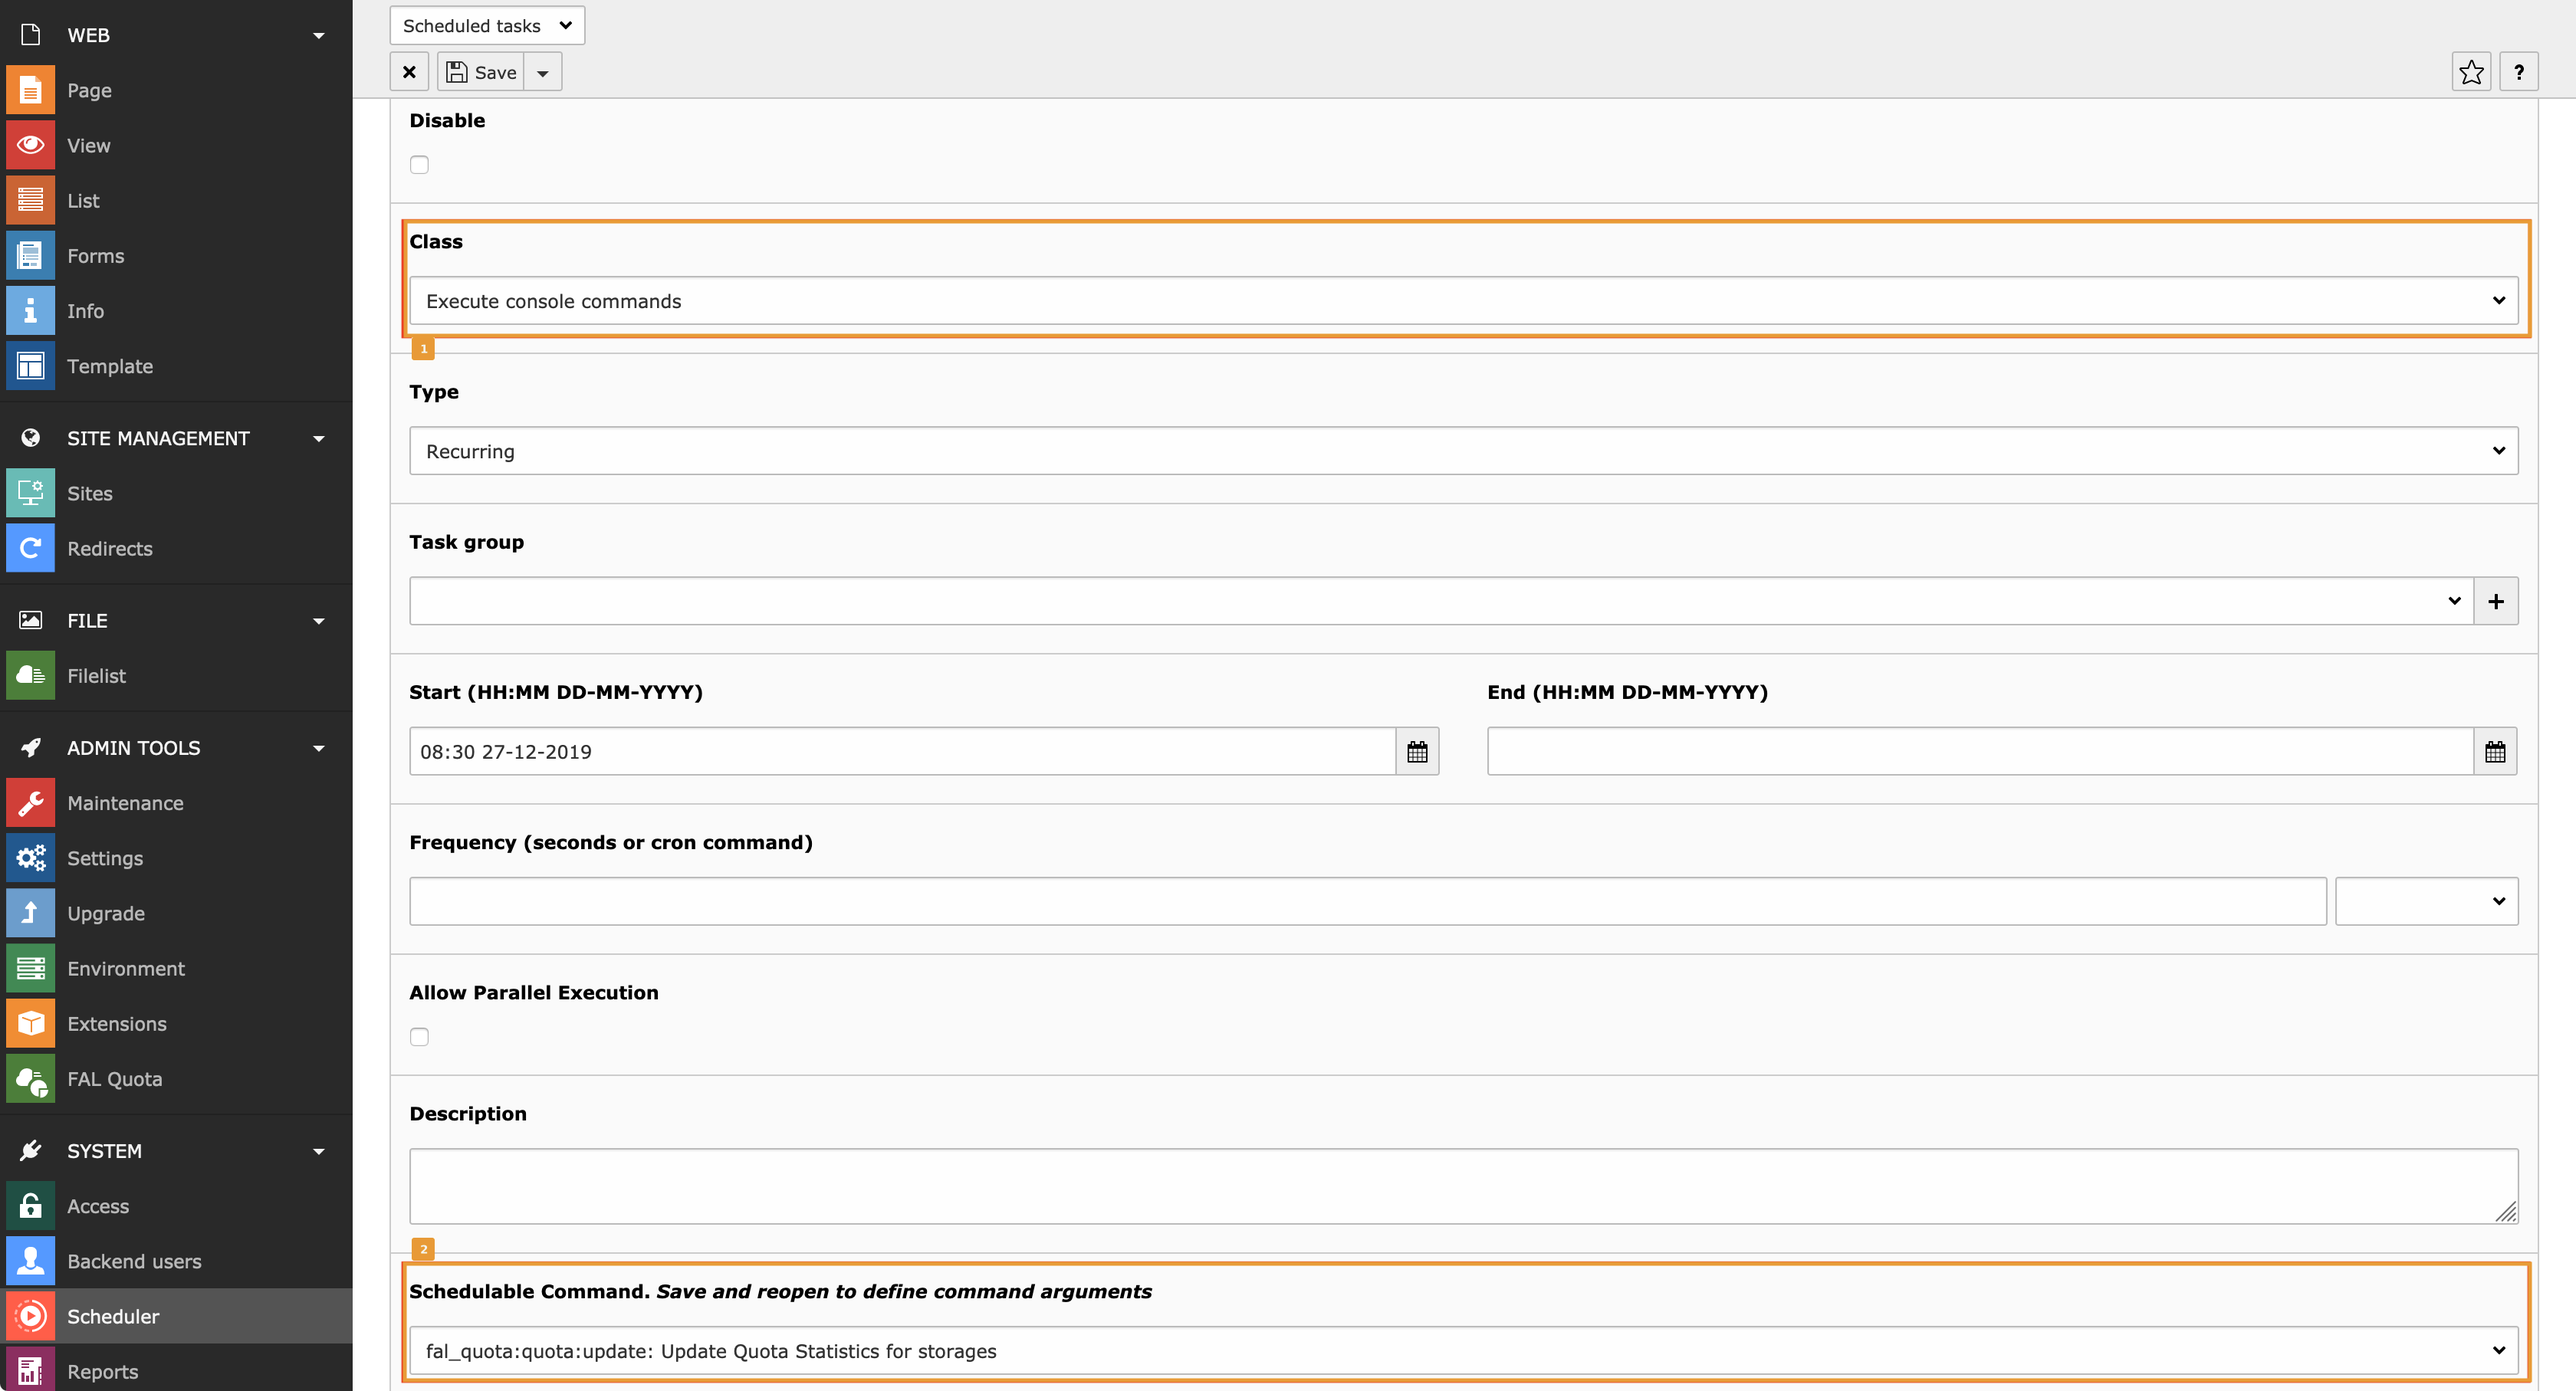
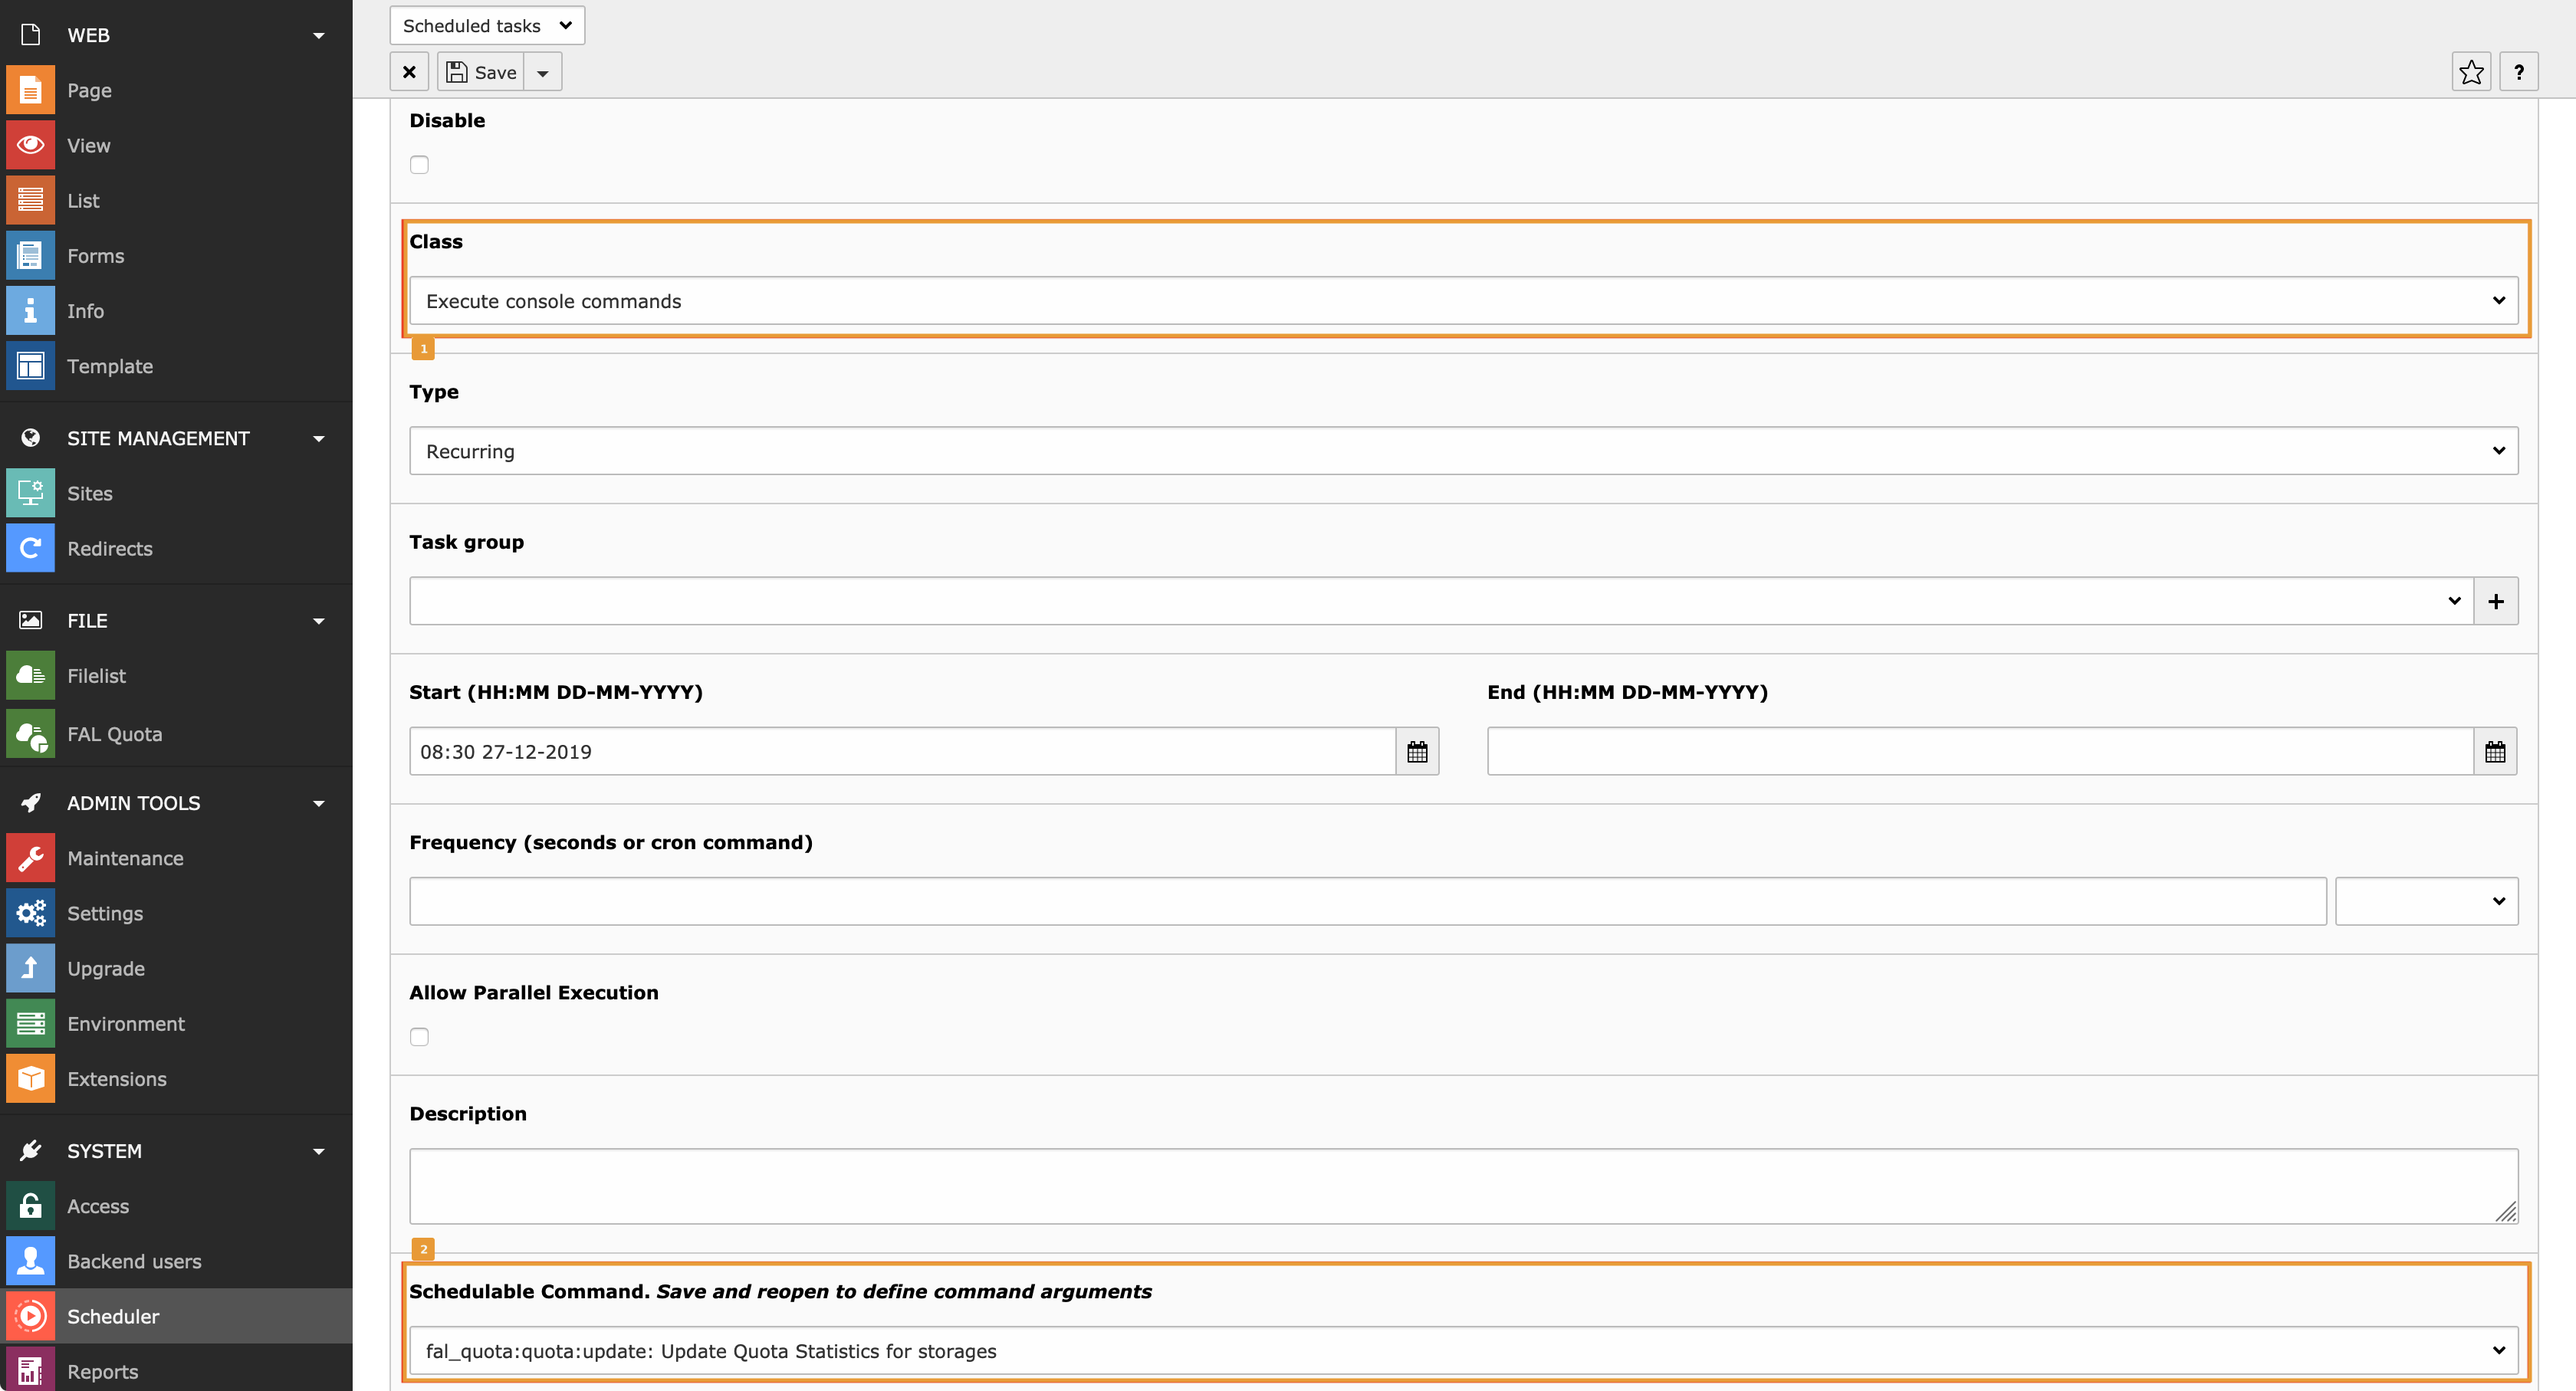
[CHANGE] Make FAL Quota module available in FILE section and allow access for users and groups

Changed region(s): [[0.0, 0.4937, 0.0625, 0.8022]]

diff --git a/Classes/Controller/DashboardController.php b/Classes/Controller/DashboardController.php
@@ -12,6 +12,7 @@ namespace Mehrwert\FalQuota\Controller;
 use Mehrwert\FalQuota\Utility\QuotaUtility;
 use TYPO3\CMS\Backend\Template\Components\ButtonBar;
 use TYPO3\CMS\Backend\View\BackendTemplateView;
+use TYPO3\CMS\Core\Authentication\BackendUserAuthentication;
 use TYPO3\CMS\Core\Resource\StorageRepository;
 use TYPO3\CMS\Core\Utility\GeneralUtility;
 use TYPO3\CMS\Extbase\Mvc\Controller\ActionController;
@@ -95,7 +96,12 @@ class DashboardController extends ActionController
      */
     public function indexAction(): void
     {
-        $storages = GeneralUtility::makeInstance(StorageRepository::class)->findAll();
+        // TYPO3 admin user gets all storages
+        if ($this->getBackendUser()->isAdmin() === true) {
+            $storages = GeneralUtility::makeInstance(StorageRepository::class)->findAll();
+        } else {
+            $storages = $this->getBackendUser()->getFileStorages();
+        }
         $aggregatedStorages = [];
 
         if (!empty($storages)) {
@@ -105,5 +111,15 @@ class DashboardController extends ActionController
             asort($aggregatedStorages);
         }
         $this->view->assign('storages', $aggregatedStorages);
+    }
+
+    /**
+     * Returns the current BE user.
+     *
+     * @return BackendUserAuthentication
+     */
+    protected function getBackendUser(): BackendUserAuthentication
+    {
+        return $GLOBALS['BE_USER'];
     }
 }

diff --git a/ext_tables.php b/ext_tables.php
@@ -10,14 +10,14 @@ call_user_func(
             // Add submodule `falquota`
             \TYPO3\CMS\Extbase\Utility\ExtensionUtility::registerModule(
                 'Mehrwert.FalQuota',
-                'tools',
+                'file',
                 'falquota',
                 'bottom',
                 [
                     'Dashboard' => 'index',
                 ],
                 [
-                    'access' => 'systemMaintainer',
+                    'access' => 'user,group',
                     'icon' => 'EXT:' . $extKey . '/Resources/Public/Images/Icons/module-icon.svg',
                     'labels' => 'LLL:EXT:' . $extKey . '/Resources/Private/Language/locallang_mod.xlf',
                     'navigationComponentId' => '',

diff --git a/ext_emconf.php b/ext_emconf.php
@@ -11,7 +11,7 @@ $EM_CONF[$_EXTKEY] = [
     'uploadfolder' => 0,
     'createDirs' => '',
     'clearCacheOnLoad' => 0,
-    'version' => '1.4.0',
+    'version' => '1.5.0',
     'constraints' => [
         'depends' => [
             'typo3' => '9.5.0-10.4.99',

diff --git a/Documentation/Installation/Index.rst b/Documentation/Installation/Index.rst
@@ -19,14 +19,14 @@ Backend Module
 ==============
 
 The extension adds some fields to the `sys_file_storage` database table to store quota configuration per storage. After
-the extension has been successfully installed, `TYPO3 System Maintainers` get access to a new backend module in
-the :guilabel:`ADMIN TOOLS` section [1]:
+the extension has been successfully installed, access to a new backend module `FAL Quota` in the :guilabel:`FILE` section [1] may
+be enabled for Backend Users and Groups via TYPO3 module configuration:
 
 .. figure:: ../Images/BackendModule.png
    :class: with-shadow
    :alt: Backend module
 
-   Default backend module for TYPO3 System Maintainers
+   Default backend module
 
 The module provides an overview for all storages currently sorted by UID and their configured quota settings [2].
 

diff --git a/Documentation/Changelog/Index.rst b/Documentation/Changelog/Index.rst
@@ -20,6 +20,13 @@ The following is an overview of the changes in this extension. For more details 
       Release Description
 
  - :Version:
+      1.5.0
+   :Date:
+      2020-06-07
+   :Changes:
+      [!!!] Make FAL Quota module available in FILE section and allow access for users and groups
+
+ - :Version:
       1.4.0
    :Date:
       2020-05-30
